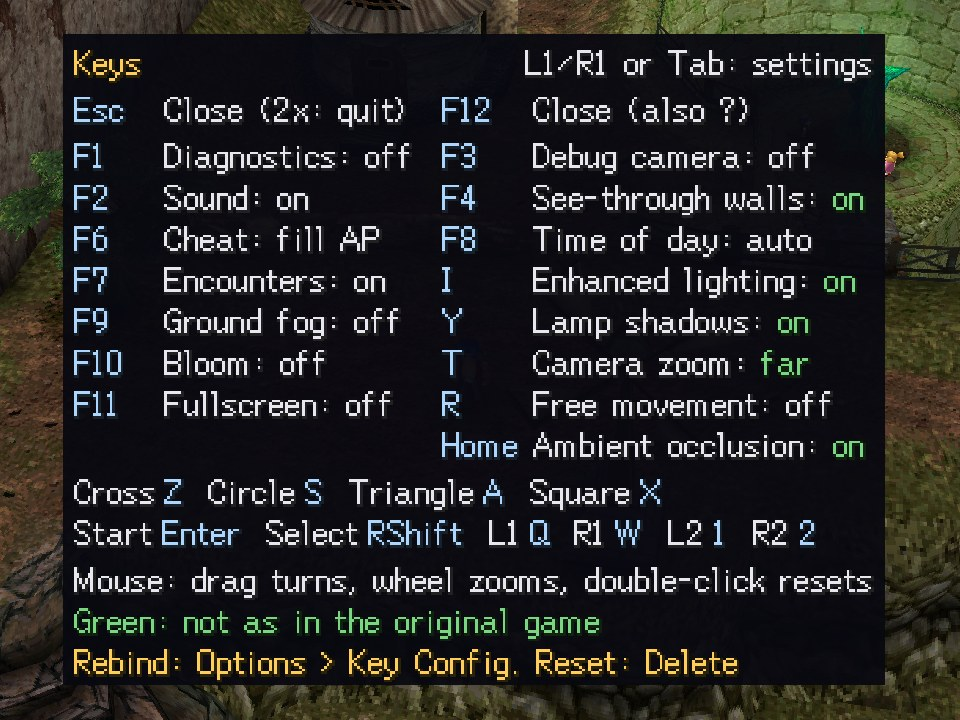
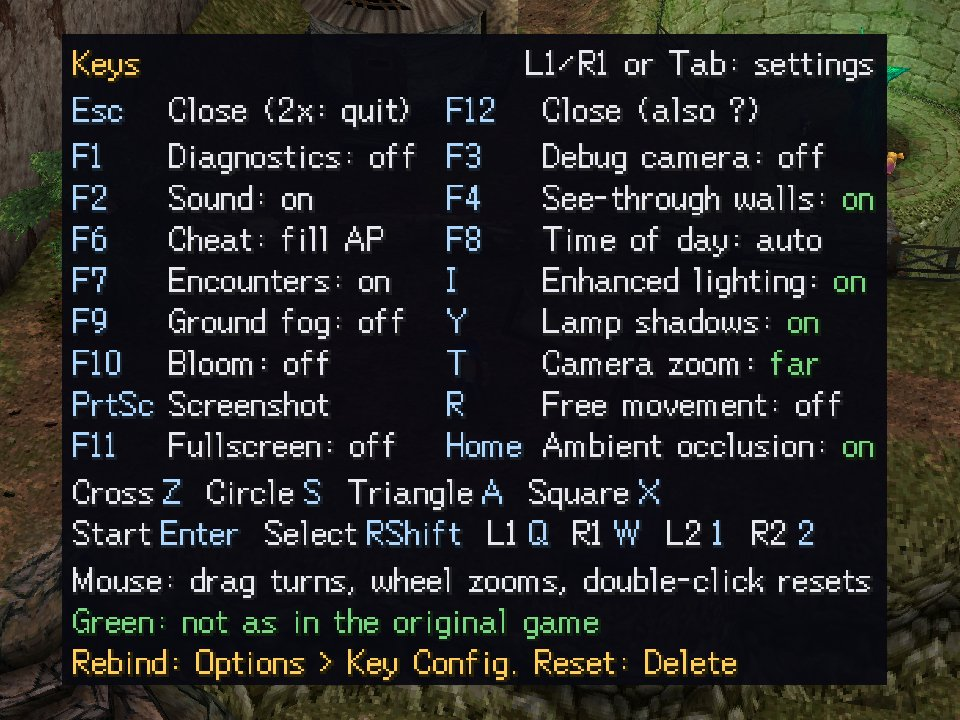
Guides: re-shoot Keys, Tools and Multiplayer images; fix the start-up hint wording
port-tools.jpg showed the Tools page's old 'Up/Down pick  Cross use'
footer, port-multiplayer.jpg the shadow blobs through the room screen and
the old footer; port-help.jpg now shows the PrtSc row. The start-up key
hint is named as the window draws it (Cross / Circle keys, F12, Esc
twice), not the retired 'F12 or Select+Start' line. The finder's In use
tag and the mode picker's line are described.

diff --git a/site/_content/guides/desktop-apps.html b/site/_content/guides/desktop-apps.html
@@ -276,10 +276,10 @@
     <figcaption>The panel follows <em>Menu colours</em>, as the launcher does: with it on <em>Light</em> (or on <em>System</em> under a light desktop) every page draws on a light plate.</figcaption>
   </figure>
   <figure class="screenshot">
-    <img src="../img/desktop/port-help.jpg" width="960" height="720" alt="The F12 panel over a dimmed town on its Keys page: every toggle key with its current state, with the states the original game does not have in green, then the pad key bindings, the mouse controls and a last line reading Rebind: Options, Key Config. Reset: Delete" loading="lazy">
-    <figcaption><kbd>F12</kbd> (or <kbd>?</kbd>, or <kbd>Select</kbd> + <kbd>Start</kbd> on a controller) opens the settings page above. <kbd>Tab</kbd>, <kbd>L1</kbd> or <kbd>R1</kbd> flips to the <strong>Cheats</strong> page (the browser play page's cheat list, applied while you play), then to the <strong>Scenes</strong> page (the play page's scene list: pick a town, field area or overworld and Cross goes there with your party), then to <strong>Tools</strong>, then to this page, which lists every toggle key with its current state (fullscreen on <kbd>F11</kbd> too), which key is Cross, Circle, Start and the rest, and what the mouse does; a state the original game does not have is drawn green, as on the launcher. Its last line resets the keys: <kbd>Delete</kbd> pressed twice puts every key and controller button back on its default. Press <kbd>F12</kbd> again to close.</figcaption>
+    <img src="../img/desktop/port-help.jpg" width="960" height="720" alt="The F12 panel over a dimmed town on its Keys page: every toggle key with its current state and PrtSc for a screenshot, with the states the original game does not have in green, then the pad key bindings, the mouse controls and a last line reading Rebind: Options, Key Config. Reset: Delete" loading="lazy">
+    <figcaption><kbd>F12</kbd> (or <kbd>?</kbd>, or <kbd>Select</kbd> + <kbd>Start</kbd> on a controller) opens the settings page above. <kbd>Tab</kbd>, <kbd>L1</kbd> or <kbd>R1</kbd> flips to the <strong>Cheats</strong> page (the browser play page's cheat list, applied while you play), then to the <strong>Scenes</strong> page (the play page's scene list: pick a town, field area or overworld and Cross goes there with your party), then to <strong>Tools</strong>, then to this page, which lists every toggle key with its current state (fullscreen on <kbd>F11</kbd> too, and <kbd>Print Screen</kbd> for a screenshot unless an expansion pack&rsquo;s reload key takes its row), which key is Cross, Circle, Start and the rest, and what the mouse does; a state the original game does not have is drawn green, as on the launcher. Its last line resets the keys: <kbd>Delete</kbd> pressed twice puts every key and controller button back on its default. Press <kbd>F12</kbd> again to close.</figcaption>
   </figure>
-  <p>The port adds a few enhancements over the original, each on its own key (and on the <a href="#port-launcher">launcher</a>), each with the original look one press away. A press shows the toggle's new state at the bottom left for a moment. For its first twelve seconds the window says <em>F12 or Select+Start: settings - Esc twice quits</em> in the same place, until you open the panel.</p>
+  <p>The port adds a few enhancements over the original, each on its own key (and on the <a href="#port-launcher">launcher</a>), each with the original look one press away. A press shows the toggle's new state at the bottom left for a moment. For its first twelve seconds the window names the keys at the bottom (<em>Z: confirm &nbsp;S: back &nbsp;F12: settings &nbsp;Esc twice: quit</em>, or your controller&rsquo;s buttons and <kbd>Select</kbd> + <kbd>Start</kbd> once you press one), until you open the panel.</p>
   <table>
     <thead><tr><th>Key</th><th>Toggle</th><th>Starts</th></tr></thead>
     <tbody>

diff --git a/docs/guides/playing-and-viewing.md b/docs/guides/playing-and-viewing.md
@@ -106,8 +106,8 @@ disc...* opens the launcher's own disc finder instead, in place of the
 options: the folder of the disc last used (else Downloads, else the home
 folder), its subfolders and its `.bin` / `.cue` files, then the usual places
 (home, Downloads, Desktop, Documents, the program's folder, and the top of each
-drive). Each disc image is checked as it is listed: the one in use reads *In
-use*, another release of the game *Wrong disc*, a file that is no PlayStation
+drive). Each disc image is checked as it is listed: the one in use (and the
+`.cue` beside its `.bin`, the same disc) reads *In use*, another release of the game *Wrong disc*, a file that is no PlayStation
 image *Unreadable*, and the row's help says why. Cross opens a folder or tries
 a disc image, and a disc that passes the check is adopted at once; *Up one folder* (or `Backspace`) climbs, Circle or
 `Esc` closes the finder. The keyboard reaches it too, as *Find a disc on this
@@ -596,7 +596,8 @@ transition (`--battle first`, the page's button of the same name). The list scro
 under the cursor, with a bar on the plate's edge showing where the view is, as
 the settings page has. The play page has the debug camera and the diagnostics bar as
 boxes as well as `F3` and `F1`. **Keys** lists every toggle key with its current state (`F11`
-fullscreen among them; `End` only while an expansion pack is loaded), the key
+fullscreen among them; `End` only while an expansion pack is loaded, and
+`PrtSc` for a screenshot in that row's seat otherwise), the key
 each pad button is on (Cross, Circle, Start, ...), read from the live Key
 Config table, and the mouse's camera controls. Its last line is a reset:
 `Delete`, `Enter` or Cross, pressed twice, puts every key and controller
@@ -613,8 +614,10 @@ stays hidden while the panel is up. In a multiplayer session, whose other
 players would stall on a held game, `F12` shows the Keys page alone and takes
 no pad input.
 
-The window's first seconds say so (*F12 or Select+Start: settings - Esc twice
-quits*, bottom left) until the panel is opened. A `--screenshot` capture leaves
+The window's first seconds say so at the bottom, with the keys Cross and
+Circle are on (*Z: confirm  S: back  F12: settings  Esc twice: quit*; with a
+controller pressed last, its own buttons and the Select+Start chord), until
+the panel is opened. A `--screenshot` capture leaves
 that line, the toggle notices and the quit prompt out, so it shows only what the
 game draws; `--screenshot-chrome` keeps them (for a documentation shot - they
 are timed by the wall clock, so such a capture is not frame-exact). A scripted
@@ -662,7 +665,8 @@ vocabulary is the table above plus `C`, `V`, `D` and `E`. Every window toggle
 is an F-key or `Home` / `End`, which the pad lookup never resolves, or a letter outside
 that vocabulary (`I`, `R`, `T`, `Y`, the dev triggers, and the minigame entries below), so no
 rebinding can collide with one. With an expansion pack, `\` opens its card menu and `` ` `` its
-game-mode picker over the field; `Tab` opens the [multiplayer screen](#playing-online).
+game-mode picker over the field (a line under its list says what the focused
+mode is played as); `Tab` opens the [multiplayer screen](#playing-online).
 
 `--boot-ui` starts at the title screen → save-select flow instead of jumping
 into the scene.
